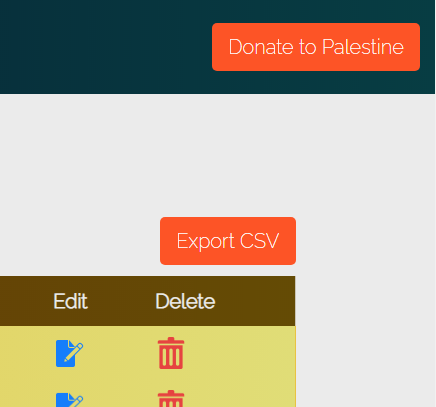
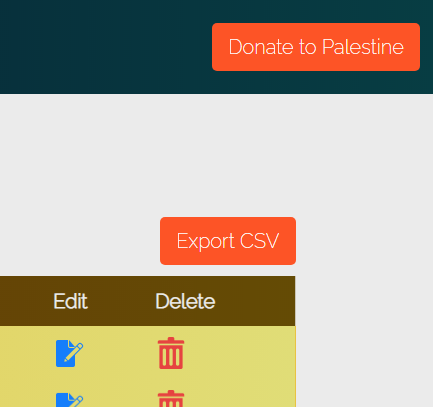
update img sizes

diff --git a/README.md b/README.md
@@ -22,7 +22,7 @@ New items can be created by navigating to the **New Item** link on the navbar an
 
 Existing items can be updated by clicking the edit icon on the right hand side of the corresponding item on the dashboard and filling out the pre-populated form with the appropriate changes.
 
-<img alt="Edit Item Screenshot" src="img/edit_item_screenshot.png" height="500" />
+<img alt="Edit Item Screenshot" src="img/edit_item_screenshot.png" width="500" />
 
 ## Create New Shipment
 
@@ -32,7 +32,7 @@ New shipments can be created by navigating to the **New Shipment** link on the n
 
 Ventry can also export the inventory data into [CSV](https://en.wikipedia.org/wiki/Comma-separated_values) format. This can be done by clicking the **Export CSV** button on the dashboard.
 
-<img alt="Export CSV Screenshot" src="img/export_screenshot.png" height="350" />
+<img alt="Export CSV Screenshot" src="img/export_screenshot.png" width="350" />
 
 # Getting Started
 
